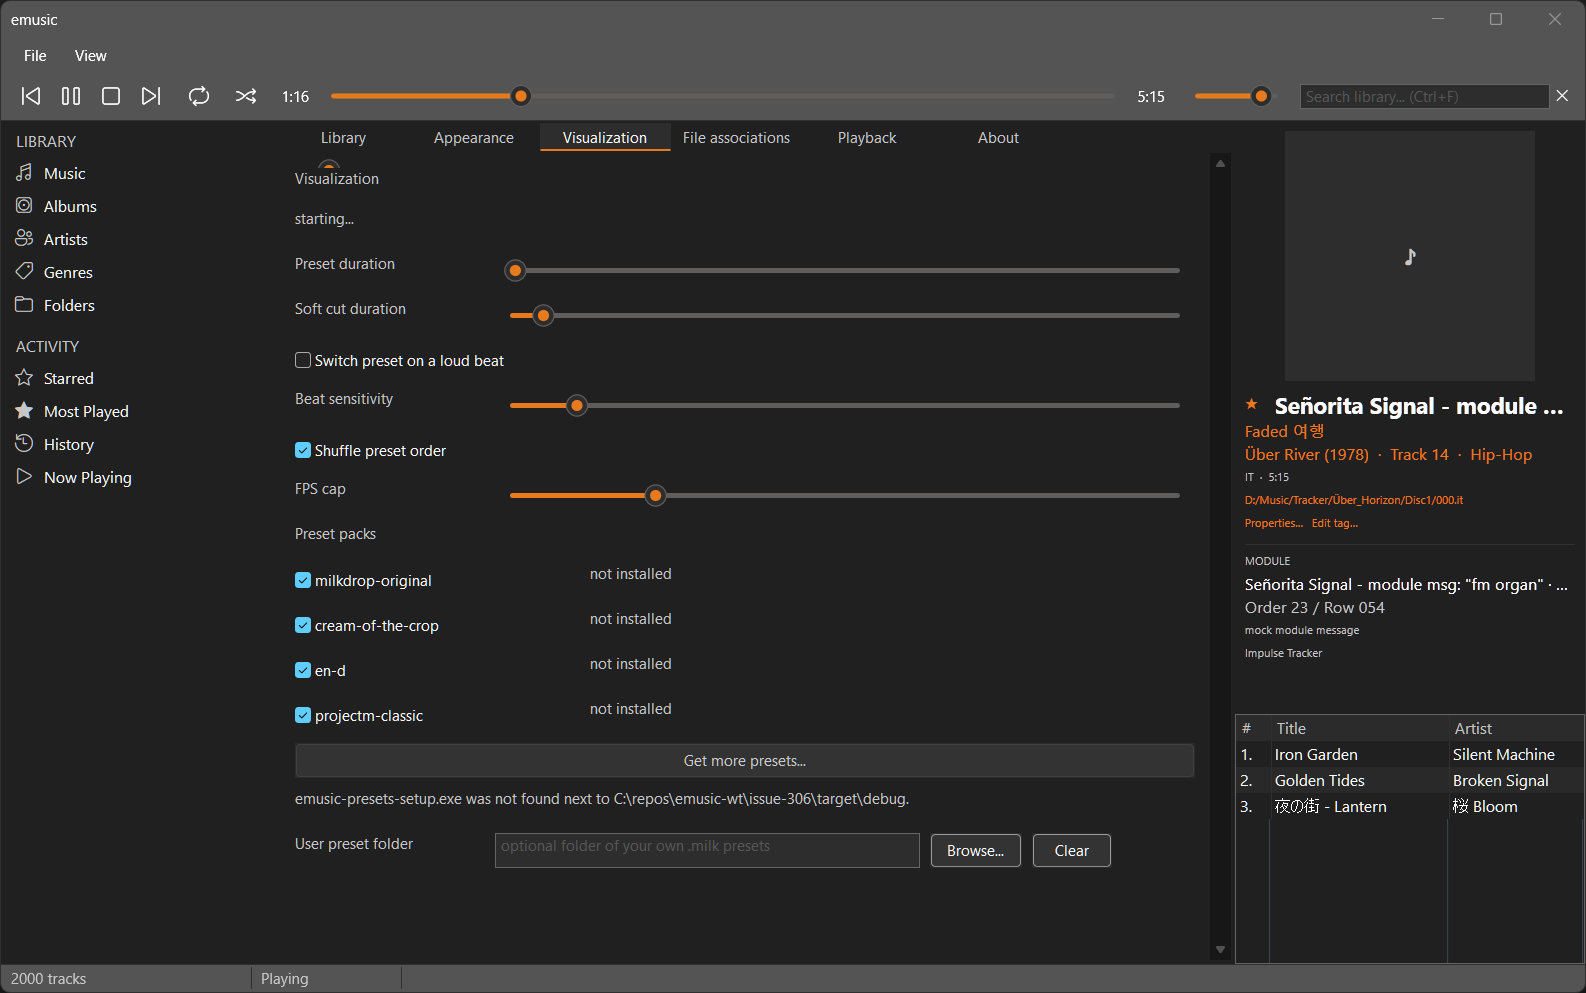
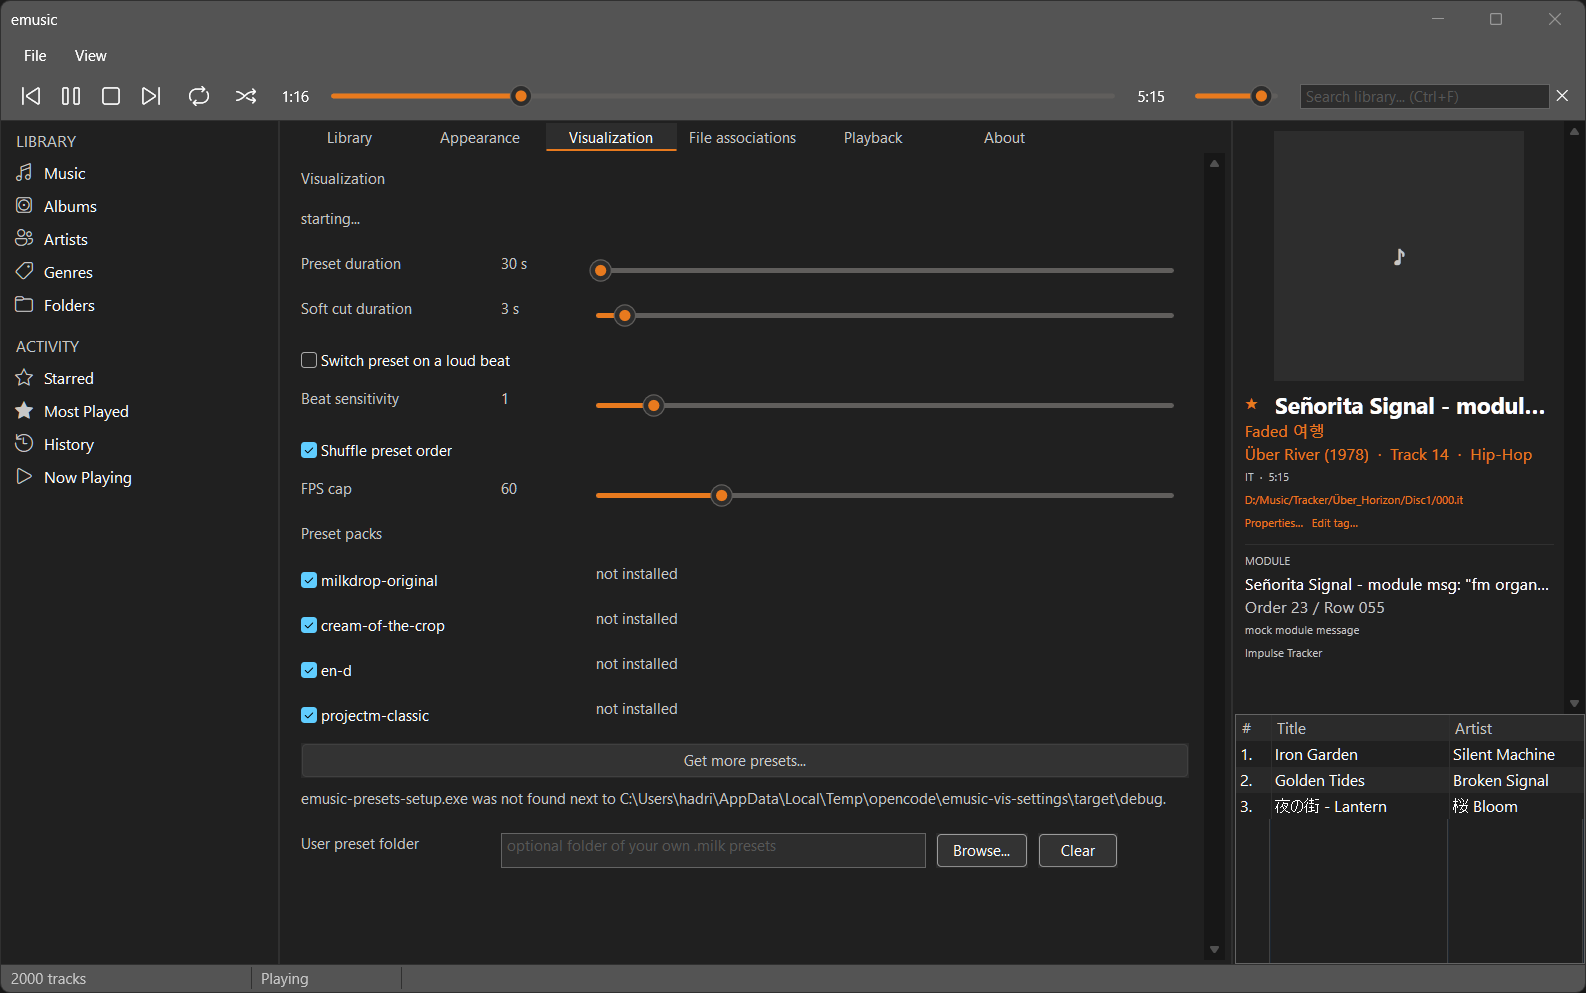
Win32: tidy the Visualization settings page
The hard-cut sensitivity slider was created visible and only hidden when
the hard-cuts setting changed, so with the default (off) it floated
unlaid-out at the top-left of the page. Hide it at construction.

Show every slider's current value to the left of its track and add
tooltips explaining each option. Regenerate the settings-visualization
shots in both themes.

diff --git a/crates/app/src/views/settings/visualization/form.rs b/crates/app/src/views/settings/visualization/form.rs
@@ -4,9 +4,10 @@
 //! (#306): preset and soft-cut durations, hard cuts with sensitivity, beat
 //! sensitivity, shuffle and the FPS cap, plus the optional folder picker.
 //!
-//! Every slider or toggle change maps to a [`VisualizationEdit`] the page
-//! turns into a [`Command::Viz`](emusic_ui::state::Command::Viz) settings
-//! update.
+//! Every slider shows its current value to the left of the track, and every
+//! control carries a tooltip explaining what it does. Each slider or toggle
+//! change maps to a [`VisualizationEdit`] the page turns into a
+//! [`Command::Viz`](emusic_ui::state::Command::Viz) settings update.
 
 use std::cell::{Cell, RefCell};
 use std::path::PathBuf;
@@ -17,10 +18,12 @@ use win32ui::{Button, CheckBox, Edit};
 
 use crate::app::Msg;
 
-use super::super::{FormRow, ROW_HEIGHT, SettingsMsg, labelled};
+use super::super::{FormRow, LABEL_WIDTH, ROW_HEIGHT, SettingsMsg};
 
 /// Width of the user-folder field, in design units.
 const FIELD_WIDTH: f32 = 340.0;
+/// Width of a slider's value label, in design units.
+const VALUE_WIDTH: f32 = 64.0;
 /// Preset duration range, in seconds (mirrors `ProjectMSettings`' clamp).
 const DURATION_RANGE: std::ops::RangeInclusive<f64> = 1.0..=3600.0;
 /// Soft-cut duration range, in seconds.
@@ -29,6 +32,29 @@ const SOFT_CUT_RANGE: std::ops::RangeInclusive<f64> = 0.0..=60.0;
 const SENSITIVITY_RANGE: std::ops::RangeInclusive<f64> = 0.0..=10.0;
 /// FPS cap range.
 const FPS_RANGE: std::ops::RangeInclusive<f64> = 10.0..=240.0;
+
+/// Tooltip for the preset-duration slider.
+const TIP_DURATION: &str = "How long each preset plays before switching to the next one.";
+/// Tooltip for the soft-cut-duration slider.
+const TIP_SOFT_CUT: &str = "Seconds of cross-fade when blending into the next preset.";
+/// Tooltip for the hard-cuts checkbox.
+const TIP_HARD_CUTS: &str = "Cut to the next preset as soon as a loud beat is detected, instead of waiting for the preset duration.";
+/// Tooltip for the hard-cut-sensitivity slider.
+const TIP_HARD_CUT_SENSITIVITY: &str =
+    "How strong a beat must be to trigger a hard cut; higher values cut less often.";
+/// Tooltip for the beat-sensitivity slider.
+const TIP_BEAT_SENSITIVITY: &str =
+    "How strongly presets react to beats; higher values react to softer beats.";
+/// Tooltip for the shuffle checkbox.
+const TIP_SHUFFLE: &str = "Play presets in a random order instead of the order of the folders.";
+/// Tooltip for the FPS-cap slider.
+const TIP_FPS: &str = "Upper limit on visualization frames per second; lower it to save GPU.";
+/// Tooltip for the user preset folder field.
+const TIP_USER_DIR: &str = "An extra folder of your own .milk presets, scanned recursively.";
+/// Tooltip for the "Browse..." button.
+const TIP_BROWSE: &str = "Pick a folder of your own .milk presets.";
+/// Tooltip for the "Clear" button.
+const TIP_CLEAR: &str = "Stop using the user preset folder.";
 
 /// One settings field changed on the Visualization page.
 pub enum VisualizationEdit {
@@ -44,16 +70,21 @@ pub enum VisualizationEdit {
 /// The timing/audio form rows and the user preset folder.
 pub(super) struct Form {
     duration_label: Label,
+    duration_value: Label,
     duration: Slider<Msg>,
     soft_cut_label: Label,
+    soft_cut_value: Label,
     soft_cut: Slider<Msg>,
     hard_cuts: CheckBox<Msg>,
     hard_cut_label: Label,
+    hard_cut_value: Label,
     hard_cut: Slider<Msg>,
     beat_label: Label,
+    beat_value: Label,
     beat: Slider<Msg>,
     shuffle: CheckBox<Msg>,
     fps_label: Label,
+    fps_value: Label,
     fps: Slider<Msg>,
     user_label: Label,
     user_edit: Edit<Msg>,
@@ -73,107 +104,137 @@ impl Form {
                 VisualizationEdit::PresetDuration(value),
             )))
         });
+        duration.set_tooltip(TIP_DURATION);
         let soft_cut = Slider::new(ui, SOFT_CUT_RANGE)?.on_change(|value| {
             Some(Msg::Settings(SettingsMsg::Viz(VisualizationEdit::SoftCut(
                 value,
             ))))
         });
+        soft_cut.set_tooltip(TIP_SOFT_CUT);
         let hard_cuts = CheckBox::new(ui, "Switch preset on a loud beat")?.on_toggle(|on| {
             Some(Msg::Settings(SettingsMsg::Viz(
                 VisualizationEdit::HardCuts(on),
             )))
         });
+        hard_cuts.set_tooltip(TIP_HARD_CUTS);
         let hard_cut = Slider::new(ui, SENSITIVITY_RANGE)?.on_change(|value| {
             Some(Msg::Settings(SettingsMsg::Viz(
                 VisualizationEdit::HardCutSensitivity(value),
             )))
         });
+        hard_cut.set_tooltip(TIP_HARD_CUT_SENSITIVITY);
         let beat = Slider::new(ui, SENSITIVITY_RANGE)?.on_change(|value| {
             Some(Msg::Settings(SettingsMsg::Viz(
                 VisualizationEdit::BeatSensitivity(value),
             )))
         });
+        beat.set_tooltip(TIP_BEAT_SENSITIVITY);
         let shuffle = CheckBox::new(ui, "Shuffle preset order")?.on_toggle(|on| {
             Some(Msg::Settings(SettingsMsg::Viz(VisualizationEdit::Shuffle(
                 on,
             ))))
         });
+        shuffle.set_tooltip(TIP_SHUFFLE);
         let fps = Slider::new(ui, FPS_RANGE)?.on_change(|value| {
             Some(Msg::Settings(SettingsMsg::Viz(VisualizationEdit::FpsCap(
                 value,
             ))))
         });
+        fps.set_tooltip(TIP_FPS);
         let user_edit = Edit::single_line(ui)?
             .cue("optional folder of your own .milk presets")
             .on_submit(|| Some(Msg::Settings(SettingsMsg::VizCommitUserDir)))
             .on_focus(|focused| (!focused).then_some(Msg::Settings(SettingsMsg::VizCommitUserDir)));
+        user_edit.set_tooltip(TIP_USER_DIR);
         let user_browse =
             Button::new(ui, "Browse...")?.on_click(|| Some(Msg::Settings(SettingsMsg::VizBrowse)));
+        user_browse.set_tooltip(TIP_BROWSE);
         let user_clear = Button::new(ui, "Clear")?
             .on_click(|| Some(Msg::Settings(SettingsMsg::VizClearUserDir)));
+        user_clear.set_tooltip(TIP_CLEAR);
 
-        Ok(Self {
-            duration_label: Label::new(ui, Rect::default(), "Preset duration")?,
+        let form = Self {
+            duration_label: label(ui, "Preset duration", TIP_DURATION)?,
+            duration_value: Label::new(ui, Rect::default(), "")?,
             duration,
-            soft_cut_label: Label::new(ui, Rect::default(), "Soft cut duration")?,
+            soft_cut_label: label(ui, "Soft cut duration", TIP_SOFT_CUT)?,
+            soft_cut_value: Label::new(ui, Rect::default(), "")?,
             soft_cut,
             hard_cuts,
-            hard_cut_label: Label::new(ui, Rect::default(), "Hard cut sensitivity")?,
+            hard_cut_label: label(ui, "Hard cut sensitivity", TIP_HARD_CUT_SENSITIVITY)?,
+            hard_cut_value: Label::new(ui, Rect::default(), "")?,
             hard_cut,
-            beat_label: Label::new(ui, Rect::default(), "Beat sensitivity")?,
+            beat_label: label(ui, "Beat sensitivity", TIP_BEAT_SENSITIVITY)?,
+            beat_value: Label::new(ui, Rect::default(), "")?,
             beat,
             shuffle,
-            fps_label: Label::new(ui, Rect::default(), "FPS cap")?,
+            fps_label: label(ui, "FPS cap", TIP_FPS)?,
+            fps_value: Label::new(ui, Rect::default(), "")?,
             fps,
-            user_label: Label::new(ui, Rect::default(), "User preset folder")?,
+            user_label: label(ui, "User preset folder", TIP_USER_DIR)?,
             user_edit,
             user_browse,
             user_clear,
             hard_cuts_on: Cell::new(false),
             applied_user_dir: RefCell::new(None),
-        })
+        };
+        // The sensitivity slider is only part of the form while hard cuts is
+        // on. Hide it at construction so it never floats unlaid-out on the
+        // page when the persisted setting starts off (#306 follow-up).
+        form.set_hard_cuts(false);
+        Ok(form)
     }
 
     /// The form's rows, in display order. The sensitivity row is only part of
     /// the form while hard cuts is on, like the tracker page's dependent rows.
     pub(super) fn rows(&self) -> Vec<FormRow> {
         let mut rows = vec![
-            (
-                labelled(&self.duration_label, self.duration.fill(1)),
-                ROW_HEIGHT,
+            slider_row(
+                &self.duration_label,
+                &self.duration_value,
+                self.duration.fill(1),
             ),
-            (
-                labelled(&self.soft_cut_label, self.soft_cut.fill(1)),
-                ROW_HEIGHT,
+            slider_row(
+                &self.soft_cut_label,
+                &self.soft_cut_value,
+                self.soft_cut.fill(1),
             ),
             (self.hard_cuts.height(dip(ROW_HEIGHT)), ROW_HEIGHT),
         ];
         if self.hard_cuts_on.get() {
-            rows.push((
-                labelled(&self.hard_cut_label, self.hard_cut.fill(1)),
-                ROW_HEIGHT,
+            rows.push(slider_row(
+                &self.hard_cut_label,
+                &self.hard_cut_value,
+                self.hard_cut.fill(1),
             ));
         }
-        rows.extend([
-            (labelled(&self.beat_label, self.beat.fill(1)), ROW_HEIGHT),
-            (self.shuffle.height(dip(ROW_HEIGHT)), ROW_HEIGHT),
-            (labelled(&self.fps_label, self.fps.fill(1)), ROW_HEIGHT),
-        ]);
+        rows.push(slider_row(
+            &self.beat_label,
+            &self.beat_value,
+            self.beat.fill(1),
+        ));
+        rows.push((self.shuffle.height(dip(ROW_HEIGHT)), ROW_HEIGHT));
+        rows.push(slider_row(
+            &self.fps_label,
+            &self.fps_value,
+            self.fps.fill(1),
+        ));
         rows
     }
 
     /// The user preset folder row, placed with the pack controls.
     pub(super) fn user_rows(&self) -> Vec<FormRow> {
         vec![(
-            labelled(
-                &self.user_label,
+            row![
+                self.user_label.width(dip(LABEL_WIDTH)),
                 Layout::row()
                     .spacing(dip(8.0))
                     .item(self.user_edit.width(dip(FIELD_WIDTH)))
                     .item(&self.user_browse)
                     .item(&self.user_clear)
-                    .height(dip(ROW_HEIGHT)),
-            ),
+                    .height(dip(ROW_HEIGHT))
+            ]
+            .height(dip(ROW_HEIGHT)),
             ROW_HEIGHT,
         )]
     }
@@ -183,13 +244,21 @@ impl Form {
     pub(super) fn sync(&self, settings: &ProjectMSettings) -> bool {
         self.duration
             .set_value(f64::from(settings.preset_duration_secs));
+        self.duration_value
+            .set_text(&seconds(settings.preset_duration_secs));
         self.soft_cut.set_value(f64::from(settings.soft_cut_secs));
+        self.soft_cut_value
+            .set_text(&seconds(settings.soft_cut_secs));
         self.hard_cuts.set_checked(settings.hard_cuts);
         self.hard_cut
             .set_value(f64::from(settings.hard_cut_sensitivity));
+        self.hard_cut_value
+            .set_text(&number(settings.hard_cut_sensitivity));
         self.beat.set_value(f64::from(settings.beat_sensitivity));
+        self.beat_value.set_text(&number(settings.beat_sensitivity));
         self.shuffle.set_checked(settings.shuffle);
         self.fps.set_value(f64::from(settings.fps_cap));
+        self.fps_value.set_text(&number(settings.fps_cap as f32));
 
         if self.applied_user_dir.borrow().as_ref() != settings.user_preset_dir.as_ref() {
             *self.applied_user_dir.borrow_mut() = settings.user_preset_dir.clone();
@@ -208,6 +277,7 @@ impl Form {
     pub(super) fn set_hard_cuts(&self, on: bool) {
         self.hard_cuts_on.set(on);
         self.hard_cut_label.set_visible(on);
+        self.hard_cut_value.set_visible(on);
         self.hard_cut.set_visible(on);
         self.hard_cut.set_enabled(on);
     }
@@ -221,6 +291,41 @@ impl Form {
     pub(super) fn set_user_dir_text(&self, path: Option<&PathBuf>) {
         self.user_edit
             .set_text(&path_text(path.map(PathBuf::as_path)));
+    }
+}
+
+/// A form row of "label | value | slider", with the current value shown to the
+/// left of the slider track.
+fn slider_row(label: &Label, value: &Label, slider: LayoutItem) -> FormRow {
+    (
+        row![
+            label.width(dip(LABEL_WIDTH)),
+            value.width(dip(VALUE_WIDTH)),
+            slider
+        ]
+        .height(dip(ROW_HEIGHT)),
+        ROW_HEIGHT,
+    )
+}
+
+/// Builds a plain label that also explains itself on hover.
+fn label(ui: &mut Ui<Msg>, text: &str, tooltip: &str) -> win32ui::Result<Label> {
+    let label = Label::new(ui, Rect::default(), text)?;
+    label.set_tooltip(tooltip);
+    Ok(label)
+}
+
+/// A value's text with a seconds unit.
+fn seconds(value: f32) -> String {
+    format!("{} s", number(value))
+}
+
+/// A value's text, without a pointless trailing `.0`.
+fn number(value: f32) -> String {
+    if value.fract().abs() < f32::EPSILON {
+        format!("{value:.0}")
+    } else {
+        format!("{value:.1}")
     }
 }
 
@@ -281,5 +386,13 @@ mod tests {
         assert_eq!(settings.beat_sensitivity, 4.0);
         assert!(!settings.shuffle);
         assert_eq!(settings.fps_cap, 144);
+    }
+
+    #[test]
+    fn values_drop_a_pointless_trailing_zero() {
+        assert_eq!(number(30.0), "30");
+        assert_eq!(number(2.5), "2.5");
+        assert_eq!(seconds(3.0), "3 s");
+        assert_eq!(seconds(2.5), "2.5 s");
     }
 }

diff --git a/crates/app/src/views/settings/visualization/packs_section.rs b/crates/app/src/views/settings/visualization/packs_section.rs
@@ -19,6 +19,10 @@ use super::packs::{self, KNOWN_PACKS};
 const PACK_NAME_WIDTH: f32 = 220.0;
 /// Width of a pack's status label, in design units.
 const PACK_STATUS_WIDTH: f32 = 200.0;
+/// Tooltip for a pack's enable checkbox.
+const TIP_PACK: &str = "Include this pack's presets in the rotation.";
+/// Tooltip for the "Get more presets..." button.
+const TIP_GET_MORE: &str = "Download the optional preset packs listed here.";
 
 /// One preset pack's row: its enable checkbox and its status text.
 struct PackRow {
@@ -43,6 +47,7 @@ impl PacksSection {
             let checkbox = CheckBox::new(ui, pack)?.on_toggle(move |on| {
                 Some(Msg::Settings(SettingsMsg::VizPack(pack.to_owned(), on)))
             });
+            checkbox.set_tooltip(TIP_PACK);
             packs.push(PackRow {
                 pack,
                 checkbox,
@@ -51,6 +56,7 @@ impl PacksSection {
         }
         let get_more = Button::new(ui, "Get more presets...")?
             .on_click(|| Some(Msg::Settings(SettingsMsg::VizGetPresets)));
+        get_more.set_tooltip(TIP_GET_MORE);
         Ok(Self {
             heading: Label::new(ui, Rect::default(), "Preset packs")?,
             packs,
